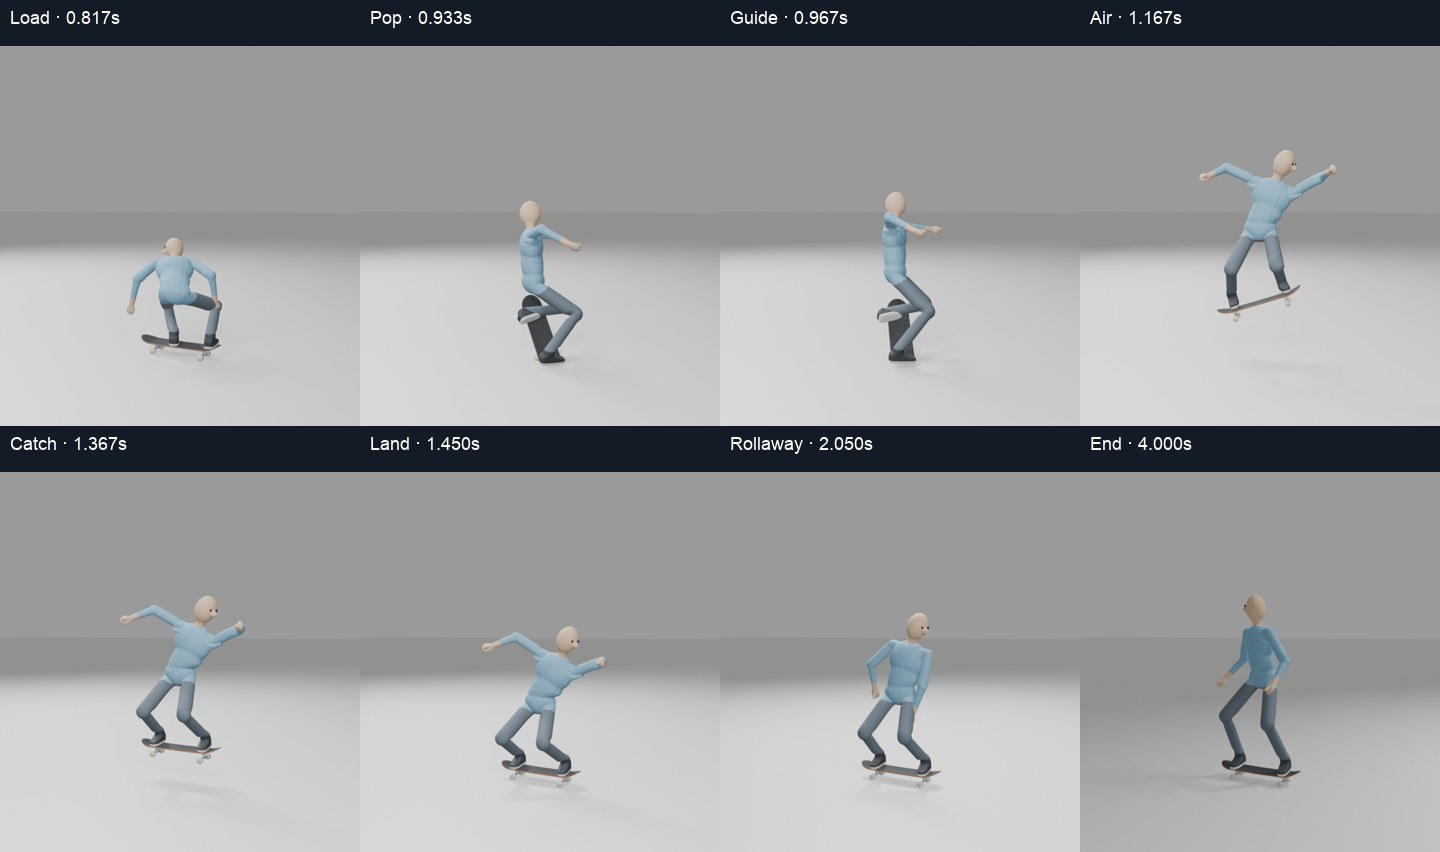
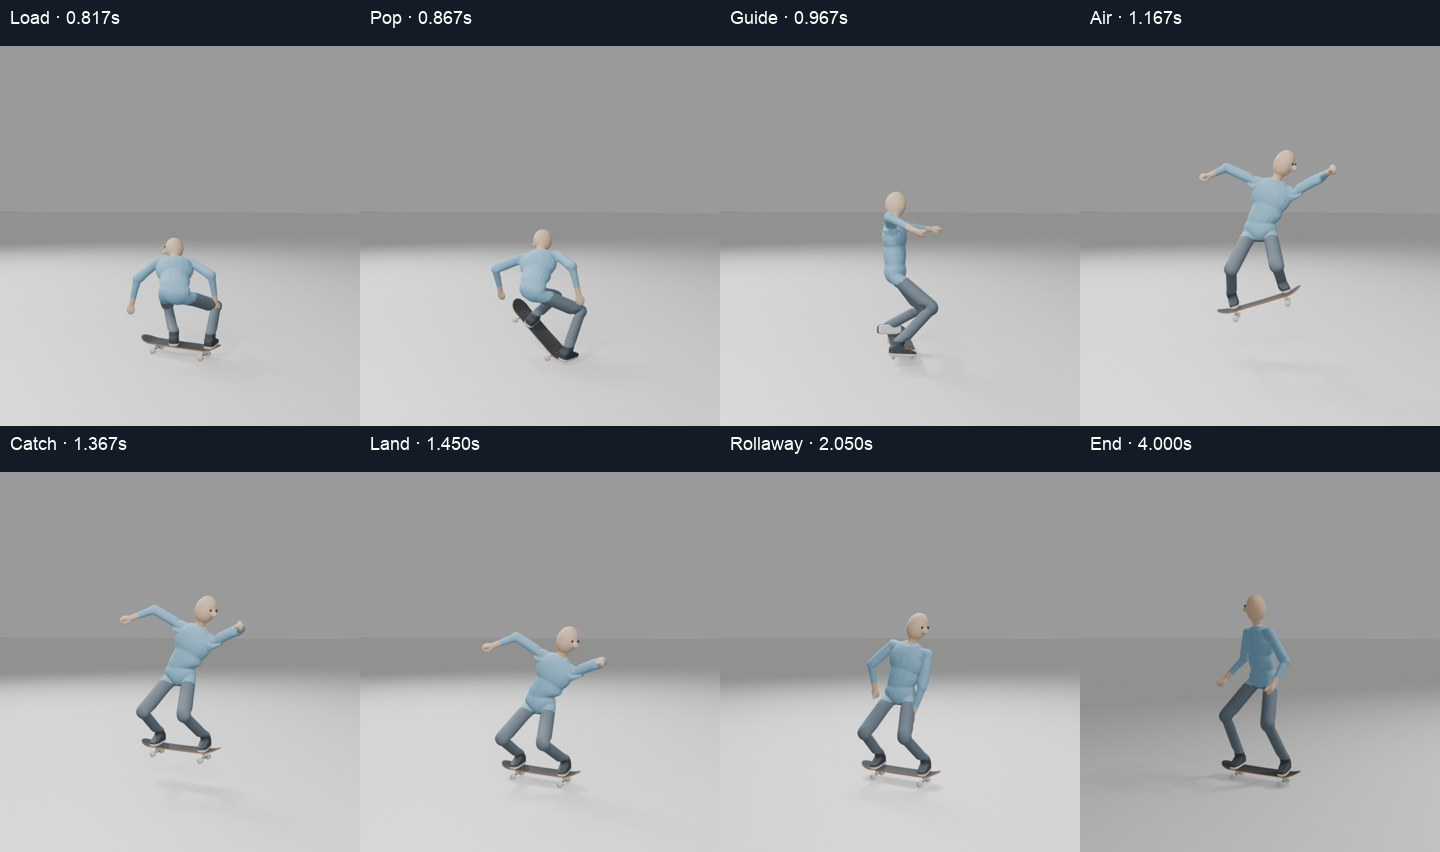
Show corrected BS180 mechanics at the original rejected times

Changed region(s): [[0.3438, 0.2441, 0.4062, 0.4272], [0.5938, 0.3357, 0.6562, 0.4272]]

diff --git a/docs/review-media/a2-bs180/README.md b/docs/review-media/a2-bs180/README.md
@@ -31,42 +31,44 @@ against its board heading. This frozen proxy's requested native binding is
 opposite to its physical mesh label; the viewer reports both explicitly.
 
 The exact route is `bs-180-source-keyed-v1`: normal Ollie,
-Flip0/Shove0/Spin−180/Body0. Source board heading is removed once from all
-source joints, directions, toes, sole frames and board; live `NoseYaw`
-retains the actual body-and-board turn. A modest nose-up carry persists
-through source54, then levels before Catch58. Free shoes follow that pitch
-near the grip. Tail release50 and a distinct free-Air/press-end52.5 preserve
-the existing strict reach, floor and contact guards.
+Flip 0 / Shove 0 / Spin −180 / Body 0. Source board heading is removed once
+from every joint, toe, direction, sole frame and board. Live `NoseYaw` owns
+the single native body-and-board turn.
 
-The controlled actual Pad/full32Hz Step/Land/scorer replay selects Backside180
-in all four cases. The60Hz body retains36/36 normal-air frames and34/34 low-air
-frames, then reaches ordinary Ground at4s. The32 individual render phases
-come from those actual replay GLBs, with no render-only pose edits. Test-only
-approval and generated models remain private; raw `reviewed=false` is retained.
-Root's independent private browser review reaches4s at both1× and¼× in all
-four cases, with28 decoded source phase selections and no browser runtime
-errors. Root also captured12 side-Pop, guide-foot and rollaway-foot views;
-these make the four contact sheets. Playback and contact-capture checks
-were performed independently by Root; the author checked the managed
-replays and visually inspected the rendered/source comparisons.
+The board now snaps earlier and levels as the front upper slides toward the
+front bolts. The leading knee bends forward and down, with the pelvis above
+the board middle. Tail-sole release at source 48.5 follows snap 47.5; upper
+contact continues to 50.5, with distinct free-Air/press-end 52.5. The board
+rises while levelling. The accepted open Goofy wind-up and Air 54 onward,
+catch, actual landing and roll-away remain intact. These are authored
+contact/depth/timing corrections, not measured 3D motion.
 
-The author inspected the original-rig phase sheets beside the reference and
-Root's contact captures: loaded ground pose, one airborne body-and-board
-half-turn without a flip, bent actual landing and ordinary recovery. The
-review correction opens the lead wind-up away from the head and lowers the
-held guide ankle, with a small leg-driven extension. The first four phase
-sheets retain exactly the previous fixed camera. Its Regular Pop/Guide view
-still foreshortens the deck almost end-on; the side-Pop contact panel is an
-explicit additional angle. This is a bounded candidate for Claude's visual
-gate, not a claim that nominal pitch resolves that projection or that the
-trick is offline approved. Air54 onward, catch, land and recovery retain
-their accepted source poses, board and contact timing.
+[Before/after at identical times](POP-GUIDE-REVIEW.md) shows the rejected and
+updated 0.933 s poses, the new actual snap at 0.867 s, then rejected/updated
+Guide at the same time for each height. The fixed camera is identical. The
+old rejected moment is retained explicitly; moving the phase button alone
+would not satisfy this comparison.
 
-Source correction commits: `69b86b7` and `776487a`.
+The controlled actual Pad/full 32 Hz Step/Land/scorer replay selects
+Backside 180 in all four cases. The 60 Hz body retains 36/36 normal-air frames
+and 34/34 low-air frames, then reaches ordinary Ground at 4 s. The 32 phase
+renders and four extra original-time renders come directly from those GLBs,
+with the frozen original skin and shaped thirteen-part board. No render-only
+pose edit is applied. Test-only approval and generated packs/models remain
+private; raw `reviewed=false` is retained.
+
+Root's independent browser replay reaches 4 s in all four cases at 1× and
+¼×, with 28 decoded source phase selections and no runtime errors. Contact
+views are captured independently from those final models. The author inspected the same-camera original-rig
+frames: the early snap is diagonal, the original 0.933 s pose no longer
+perches on an upright nose, the guiding board is level and rising, and the
+later body-and-board half-turn, bent landing and settled recovery remain.
+These checks do not replace Claude's independent offline judgement.
+
+[Integrated source correction](https://github.com/Dj-Shortcut/rust-skate-mod/commit/8234e862cf5ae46d53e4cb9894e6a49b4194c0c4).
 Raw source pack SHA256:
[1 lines of base64/hex data omitted]
-The actual managed replay binds unchanged current-main C# at
-`d0228f0f4607eb94a24622e1e427704ae19291b7`; the original exact BS180 route
-is retained. Claude owns the offline judgement and library status. Raw
-`reviewed=false` remains unchanged. Native Rust/Shadow selection, controls
-and gameplay remain a separate pending gate.
[1 lines of base64/hex data omitted]
+The rebuilt managed replay binds the frozen integrated source at
+`3f593c859c4be6afce08fad47ff28518ed6b4746`.
+Claude owns the library status and offline judgement. Native Rust/Shadow
+selection, controls and gameplay remain a separate pending gate.

diff --git a/assets/authored/animation/bs180-keyed/README.md b/assets/authored/animation/bs180-keyed/README.md
@@ -70,28 +70,19 @@ Shadow or Claude's offline visual approval.
 
 ## Pop/Guide review correction
 
-Claude's A2 review identified an overly steep-looking Pop/Guide and a lead
-hand held beside the head. The authored pressure peak is reduced to about
-38 degrees, with the early front outer-upper drag kept around middeck/front
-bolts before advancing into the free/catch path. A small leg-driven
-extension avoids a sinking hip through pressure and guide.
-A separate short wind-up opens the lead elbow and hand away from the head,
-then rejoins the previous balance before source54. Air, catch, land and
-roll-away retain their existing poses, contacts and timing. The original
-filmed body controls are unchanged; these corrections remain explicitly
-reconstructed presentation. Raw `reviewed=false` is retained.
+The board snaps earlier, then the front outer-upper slides toward the front
+bolts while the deck levels. The front knee bends forward and down; a short
+leg-driven extension keeps the pelvis above the board middle. The lead
+wind-up opens away from the head and rejoins the accepted balance before
+source frame 54. The original filmed body controls, camera and actual native
+body/board turn remain unchanged.
 
-## Visible snap and levelling mechanics
+Tail-sole release 48.5 follows snap 47.5, before upper-guide release 50.5 and
+distinct free-Air 52.5, so the board rises while it levels. The previously
+accepted Air 54 onward, catch, land, roll-away and open Goofy wind-up are
+retained. Source timing, leg depth and contacts are authored reconstructions,
+not measured 3D. Raw `reviewed=false` remains unchanged.
 
-The visible review correction uses an earlier snap followed by the front
-upper dragging to the bolts while the deck levels. The front knee bends
-forward and down; the pelvis stays above the board middle. Tail-sole
-release48.5 follows snap47.5, before the upper-guide release50.5 and the
-distinct free-Air52.5, so the board rises while it levels. The original
-camera and actual native body/board turn are unchanged. The previously
-accepted Air54 onward and the open Goofy wind-up are retained.
-
-Before/after media include both the original0.933s moment and the new earlier
-snap, avoiding a phase-button substitution. Source timing, leg depth and
-contacts are authored reconstructions, not measured3D. Raw approval remains
-false; the final visible result remains subject to Claude's independent gate.
+Before/after media retain both the original 0.933 s moment and the new earlier
+snap. The result remains subject to Claude's independent visual judgement
+and the separate native Rust/Shadow gate.

diff --git a/docs/review-media/a2-bs180/POP-GUIDE-REVIEW.md b/docs/review-media/a2-bs180/POP-GUIDE-REVIEW.md
@@ -1,15 +1,20 @@
 # BS180 Pop/Guide follow-up for Claude
 
-These are original rig-only crops in the same fixed camera, before on top and
-current candidate below. Source video pixels are absent.
+All panels are original rig-only renders with the same fixed camera. Source
+video pixels are absent. Each row contains the rejected 0.933 s pose, the
+updated **same 0.933 s** pose, the new actual snap at 0.867 s, then old/new
+Guide at the same time. Normal and low flights are separate rows.
 
 - [Physical Regular, both heights](pop-guide-before-after-regular.jpg)
 - [Physical Goofy, both heights](pop-guide-before-after-goofy.jpg)
 
-The head-adjacent wind-up hand now opens, and the lower guide ankle/rising
-hips improve the early leg gesture. The Regular deck remains foreshortened
-and end-on in this fixed projection; these stills are a candidate for Claude's
-independent gate, not a full visual approval. The same eight phase/contact
-sheets and [source comparison](http://127.0.0.1:63761/a2-bs180-pop-arm/) remain
-available. Accepted Air54 onward controls, native carrier, contact safety,
-scoring and gameplay camera are retained. Raw stays reviewed=false.
+The snap is earlier and diagonal; the original rejected moment is now
+levelled, with the guiding foot at the front bolts, knee forward/down and
+pelvis above the board middle. The levelled board rises through Guide.
+The open Goofy wind-up and accepted Air/catch/landing/recovery are retained.
+The source and animation remain unapproved pending Claude's independent
+judgement and the separate native Rust/Shadow gate.
+
+[Four-case source comparison, 1× and ¼×](http://127.0.0.1:63761/a2-bs180-pop-arm/).
+Raw remains `reviewed=false`; no native physics, scoring, stance sampler,
+limb limits, contact guards or camera were changed.
